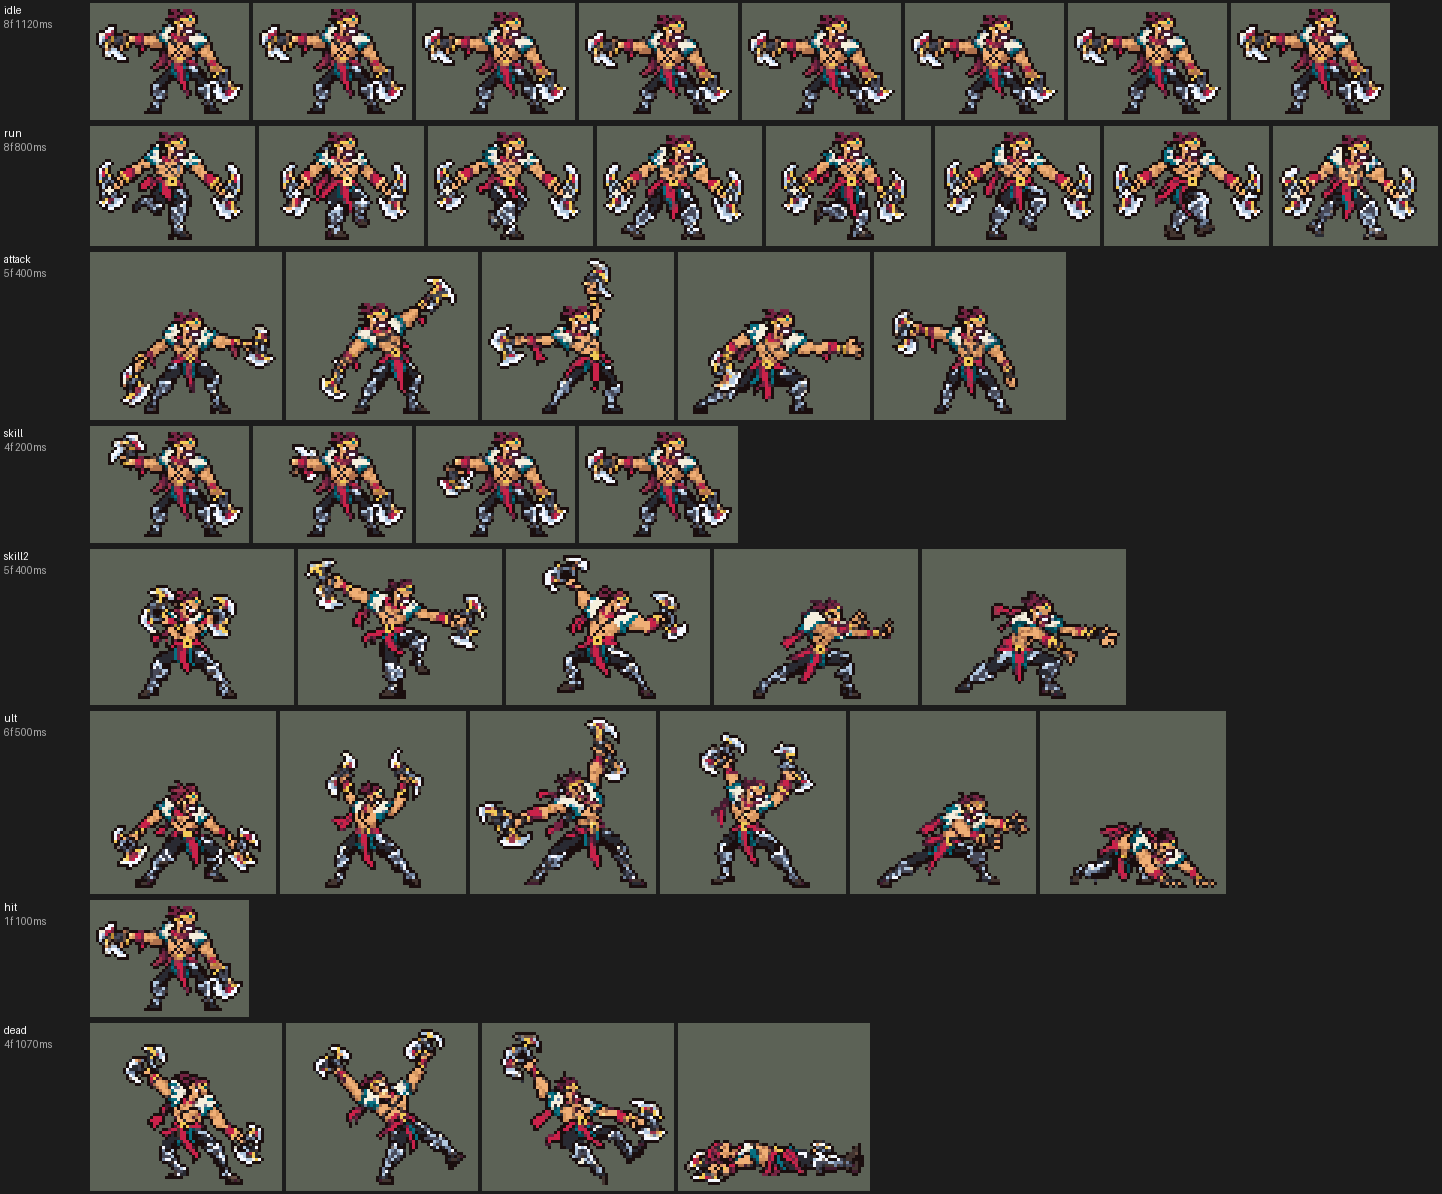
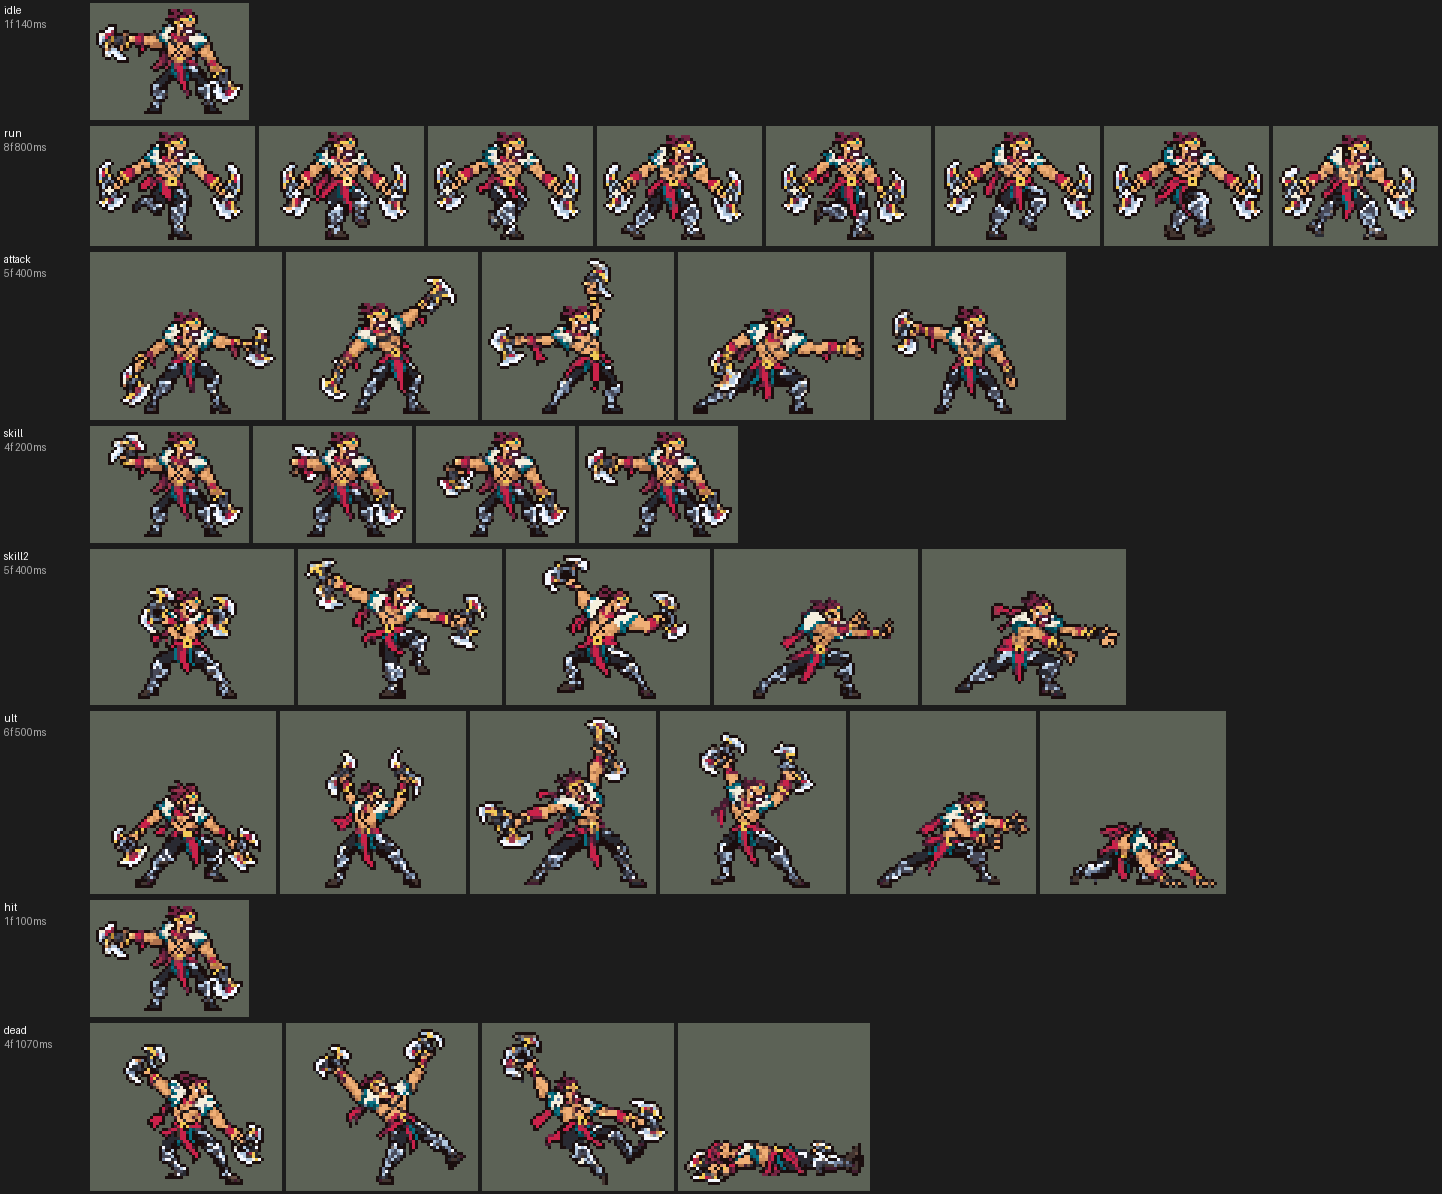
Draven: no idle breath (the dip cut the near axe by his knee)
The user: 「上下摆动武器变形」. idle_breathe takes its dip rows out of the shins, where the near axe hangs beside
the near leg: the blade lost a row every breath. He stands still like Sivir, Olaf and Viktor (BREATHE_SKIP).

Changed region(s): [[0.156, 0.0, 0.9674, 0.124]]

diff --git a/tools/art/import_native.py b/tools/art/import_native.py
@@ -71,7 +71,7 @@ UNSTEADY = {("rakan", "run"), ("kogmaw", "idle"), ("kogmaw", "run"), ("karma", "
 # the shared lean smeared his toes, his carried blade went under the soles); Zed too (rig_zed BREATH: the shared cut ran
 # through his wrist blades and shortened them); Olaf too (rig_olaf BREATH: the shared cut ran through his spiked greaves);
 # Viktor too (fix_viktor_stand BREATH: the shared cut and lean put an orange square in his mirrored far boot)
-BREATHE_SKIP = {"renekton", "sivir", "brand", "tristana", "jax", "pyke", "yone", "gwen", "kayle", "alistar", "soraka", "blitzcrank", "xayah", "rengar", "kogmaw", "zed", "karma", "olaf", "viktor"}   # sivir: the user's pick of a still idle (「希维尔改成静止不动吧」): every seam on her shrunk wide stance pulled her
+BREATHE_SKIP = {"renekton", "sivir", "brand", "tristana", "jax", "pyke", "yone", "gwen", "kayle", "alistar", "soraka", "blitzcrank", "xayah", "rengar", "kogmaw", "zed", "karma", "olaf", "viktor", "draven"}   # sivir: the user's pick of a still idle (「希维尔改成静止不动吧」): every seam on her shrunk wide stance pulled her
 # hips or her slanted boots
 # renekton: the user's pick of a still idle after the 90% shrink (「C吧」, from main's / a shin breath / still)
 # idle_breathe options per hero (the user's review of the first roster GIF, 2026-10-08: Akali, Alistar, Ashe, Briar and
@@ -91,7 +91,8 @@ BREATHE_OPTS = {"kennen": {"zone": (0.08, 1)}, "leblanc": {"zone": (0.18, 1)},
                 "samira": {"sway": [0] * 8},
                 # Draven's League idle (90 %, both axes out wide): the lean swung the far axe and sheared him over his
                 # legs - 「游戏里左右晃动的太大了吧 模型都变形」; only the dip
-                # and 「头和身体不协调」: his head no longer follows the dip a frame late (lag 0)
+                # and 「头和身体不协调」: his head no longer followed the dip a frame late (lag 0); then 「上下摆动武器变形」:
+                # the dip's shin rows cut the near axe hanging by his knee - he does not breathe (BREATHE_SKIP)
                 "draven": {"sway": [0] * 8, "lag": 0}}
 # hero: [(colour set, box)] of the weapon in the hero's hands. idle_breathe would cut or hinge THROUGH a weapon that
 # reaches the shins (the user's reviews, 2026-10-08: 「剑魔和盖伦武器有点变形」「锐雯武器变形」「莎米拉武器变形」「妖姬和

diff --git a/README.md b/README.md
@@ -3565,7 +3565,7 @@ python tools/art/preview_hecarim.py       # 预览和演示 GIF
 | 被动 | 「德莱文联盟」：每接住一把斧 +1 层崇拜（最多 6 层，每层攻击 +4），整条命都在；用斧头（普攻或大招）击杀英雄时兑现：每层回复 25 生命、攻速 +30% 4 秒，层数清零（击杀判定用金克丝「兴奋」的做法） |
 | 高手连招 | 用户：「完整还原 + 高手连招」。**接斧连击**：接住斧头刷新血性冲刺，下一下普攻又冲刺又转斧；**E 接 R**：开道利斧打中英雄后 150 tick 内放大招，巨斧飞得更快（9000）；**R 收割兑现**：大招击杀也算兑现崇拜。连招只用自己那个技能的冷却 |
 | 数值 | 攻击 104（+19）、生命 930（+90）、护甲 22（+7）、魔抗 15（+3）、移速 900（+9）。数值是自己设计的，用 SDK 对战模拟调：ADC，对 5 个原版射手，3 套阵容、两边各打，10 分钟。初稿种子 1–12 +2.18（同一批金克丝 +4.46、图奇 +1.79、克格莫 +1.67）、25–36 +1.70（图奇 +1.18、克格莫 +1.69）；按动作帧对齐出手时间后 +2.79 / +1.88；改成随机落点、跑过去接（每把都接住）和大招加宽加远后 +3.04 / +3.17（10 分钟伤害 12900 / 13300，原来 11500），仍低于金克丝，在已合并射手的范围里，没改数值 |
-| 精灵图 | 8 个动作 41 帧：待机 8（呼吸）、移动 8、普攻 5、Q（`skill`）4、E（`skill2`）5、R（`ult`）6、受击 1、死亡 4。鸡冠头到脚底 36 行（用户：「模型可以适当缩小点」，对比图里选了 90%，原来 40 行、连举起的斧头 54 高），待机 36 × 48，23 色。头像截取点 (4, −35)；选人卡片用默认位置（头顶在站位点上方 24 格，不到 28 格不用设） |
+| 精灵图 | 8 个动作 34 帧：待机 1（不做呼吸：呼吸要在小腿处删行，近手垂在腿旁的斧头被切得变形，用户：「上下摆动武器变形」）、移动 8、普攻 5、Q（`skill`）4、E（`skill2`）5、R（`ult`）6、受击 1、死亡 4。鸡冠头到脚底 36 行（用户：「模型可以适当缩小点」，对比图里选了 90%，原来 40 行、连举起的斧头 54 高），待机 36 × 48，23 色。头像截取点 (4, −35)；选人卡片用默认位置（头顶在站位点上方 24 格，不到 28 格不用设） |
 | 特效 | Codex 生图的 19 张（游戏尺寸原稿直接读，`import_draven.py`）：`league_draven_fx` 普攻飞斧（用定稿手里那把斧整格旋转，Codex 那张太碎）、命中火花、火焰旋转斧和弹起、接斧落点圈和落下的斧头（放在落点上，0.38 秒）、接住闪光、没接住、头顶一把 / 两把旋转斧、血性冲刺光和脚下红光、开道利斧、命中、减速、大招命中、金币兑现、满层星光；`league_draven_big` 大招的两把火焰巨斧（飞出去和飞回来共用）。颜色照英雄联盟：血红到橙黄的火焰、斧头本身的钢色，兑现用金色 |
 | 音效 | 英雄联盟的音效和配音（`tools/lol/extract_draven.py`）：扔斧和命中、Q 转斧 / 火焰斧出手 / 命中 / 接住 / 掉落、W、E 出手 / 飞出 / 命中、R 出手 / 飞出 / 命中 / 折返、被动兑现；Q、W、E、R 的配音。版权属于 Riot Games，**不提交到仓库**，按下面的命令在本地生成 |
 | 图标 | 官方技能图标（Q 旋转飞斧 / E 开道利斧 / R 冷血追命），从本地客户端提取，缩到 64×64；W 自动，没有技能位 |
